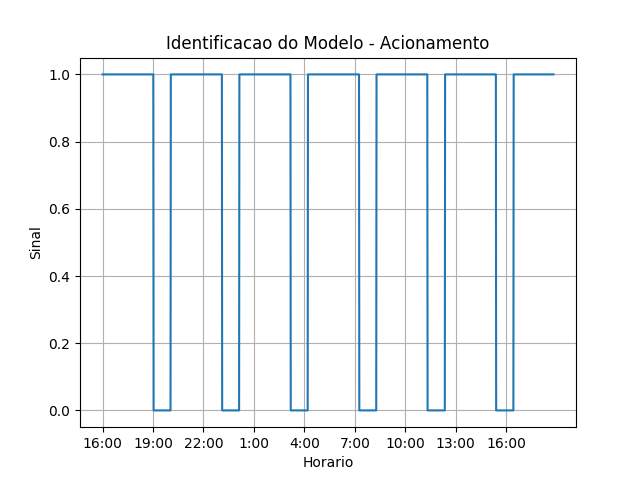
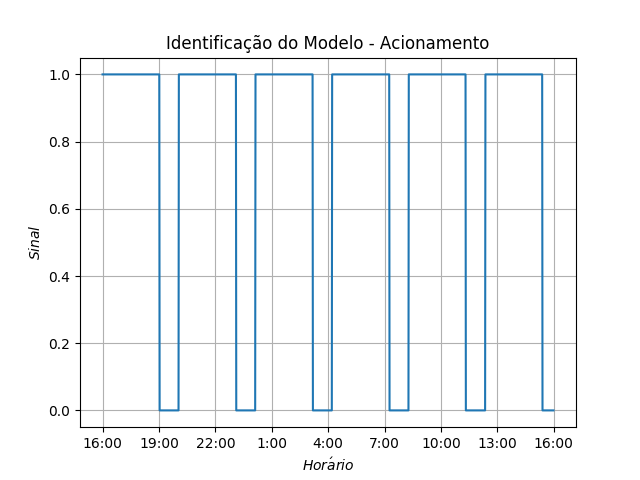
Grafico oficial Identificacao

diff --git a/Integracao/plotlib.py b/Integracao/plotlib.py
@@ -18,8 +18,22 @@ def plotModel (database, name, controllerType):
     TEMP = 23
     TEMP_EMPTY_ROOM = 25
     
+    if(name == '2018-11-23_09-51-38_05'):
+        energyTime = ['09-40','10-20','10-52','11-14','11-43','13-22','13-46','14-16','14-36']
+        energyValue = [9041.93,9041.25,9042.61,9042.85,9043.26,9044.82,9045.35,9046.03,9046.46]
+    else:
+        energyTime = []
+        energyValue = []
+    
+    energyHour = []
+    energyMin = []
+    for t in energyTime:
+        t = t.split('-')
+        energyHour.append(t[0])
+        energyMin.append(t[1])
+        
     if(controllerType == 0):
-        title = 'Identificacao do Modelo'
+        title = 'Identificação do Modelo'.decode('utf-8')
         save = 'Ident'
     elif(controllerType == 1):
         title = 'Controlador Liga-Desliga'
@@ -54,6 +68,10 @@ def plotModel (database, name, controllerType):
     inferior = []
     superior = []
     
+    contEnergy = 0
+    
+    energy = []
+    
     for line in data:
         
         time = line[0].decode("utf-8")
@@ -66,6 +84,12 @@ def plotModel (database, name, controllerType):
         timeAux = time.split("-")
         hour = timeAux[0]
         min = timeAux[1]
+        
+        if(len(energyHour)>contEnergy+1):
+            if(int(hour)>energyHour[contEnergy+1] and int(min)>energyMin[contEnergy+1]):
+                contEnergy = contEnergy+1
+        if(len(energyHour)>0):
+            energy.append(energyValue[contEnergy])
         
         dateTime.append(time)
         tempMeetingRoom.append(line[1])
@@ -111,7 +135,7 @@ def plotModel (database, name, controllerType):
 ##            nPeopleReal = 4
 ##        elif(hour=='10' and (min == '51' or min == '52')):
 ##            nPeopleReal = 2
-##        elif(hour=='10' and (min == '55' or min == '56')):
+##        elif(hour=='10' and (min == '55' or min == '170')):
 ##            nPeopleReal = 4
 ##        elif(hour=='11' and (min == '04' or min == '05')):
 ##            nPeopleReal = 5
@@ -166,7 +190,7 @@ def plotModel (database, name, controllerType):
         else:
             compressorSignal.append(line[5])
             
-        if(cont == 0 or cont%56 == 0):
+        if(cont == 0 or cont%170 == 0):
             dateTimeClean.append(str(int(hour))+":00")
             
             if(cont == 0):
@@ -191,63 +215,64 @@ def plotModel (database, name, controllerType):
     integralL = 0
     integralError = 0
     PMV = []
-    for i in range(len(tempExternal)):
-        tempE = tempExternal[i]
-        tempL = tempLara[i]
-        e = error[i]
-        tempR = tempMeetingRoom[i]
+    if(controllerType != 0):
+        for i in range(len(tempExternal)):
+            tempE = tempExternal[i]
+            tempL = tempLara[i]
+            e = error[i]
+            tempR = tempMeetingRoom[i]
+            
+            if(tempE > 23):
+                integralE = integralE + (tempE - 23)
+            if(tempL > 23):
+                integralL = integralL + (tempL - 23)
+                
+            if(e > 0):
+                integralError = integralError + e
+            else:
+                integralError = integralError - e
+                
+            if(tempR < 17):
+                pmv = -1.77
+            elif(tempR < 18):
+                pmv = -1.5
+            elif(tempR < 19):
+                pmv = -1.27
+            elif(tempR < 20):
+                pmv = -1.02
+            elif(tempR < 21):
+                pmv = -0.77
+            elif(tempR < 22):
+                pmv = -0.5
+            elif(tempR < 22.7):
+                pmv = -0.25
+            elif(tempR < 23.3):
+                pmv = 0
+            elif(tempR < 25):
+                pmv = 0.27
+            elif(tempR < 26):
+                pmv = 0.5
+            elif(tempR < 27):
+                pmv = 0.78
+            elif(tempR < 28):
+                pmv = 1
+            elif(tempR < 29):
+                pmv = 1.29
+            elif(tempR < 30):
+                pmv = 1.6
+            else:
+                pmv = 1.8
+                
+            PMV.append(pmv)
+            
+        N = 15
+        cumsum, PMVFilter = [0], []
         
-        if(tempE > 23):
-            integralE = integralE + (tempE - 23)
-        if(tempL > 23):
-            integralL = integralL + (tempL - 23)
-            
-        if(e > 0):
-            integralError = integralError + e
-        else:
-            integralError = integralError - e
-            
-        if(tempR < 17):
-            pmv = -1.77
-        elif(tempR < 18):
-            pmv = -1.5
-        elif(tempR < 19):
-            pmv = -1.27
-        elif(tempR < 20):
-            pmv = -1.02
-        elif(tempR < 21):
-            pmv = -0.77
-        elif(tempR < 22):
-            pmv = -0.5
-        elif(tempR < 22.7):
-            pmv = -0.25
-        elif(tempR < 23.3):
-            pmv = 0
-        elif(tempR < 25):
-            pmv = 0.27
-        elif(tempR < 26):
-            pmv = 0.5
-        elif(tempR < 27):
-            pmv = 0.78
-        elif(tempR < 28):
-            pmv = 1
-        elif(tempR < 29):
-            pmv = 1.29
-        elif(tempR < 30):
-            pmv = 1.6
-        else:
-            pmv = 1.8
-            
-        PMV.append(pmv)
-        
-    N = 15
-    cumsum, PMVFilter = [0], []
-    
-    for i, x in enumerate(PMV, 1):
-        cumsum.append(cumsum[i-1] + x)
-        if i>=N:
-            movingAve = (cumsum[i] - cumsum[i-N])/N
-            PMVFilter.append(movingAve)
+        for i, x in enumerate(PMV, 1):
+            cumsum.append(cumsum[i-1] + x)
+            if i>=N:
+                movingAve = (cumsum[i] - cumsum[i-N])/N
+                PMVFilter.append(movingAve)
     
     
     #matplotlib.rc('text', usetex=True)
@@ -263,7 +288,7 @@ def plotModel (database, name, controllerType):
     plt.title(title + " - Temperatura")
     plt.ylabel(r"$Temperatura$")
     plt.xlabel(r"$Hor\'ario$")
-    plt.xticks(range(0, cont, 56), dateTimeClean)
+    plt.xticks(range(0, cont, 170), dateTimeClean)
     plt.grid(True)
     plt.savefig("Log/"+save+"_"+name+"_Temp.png")
     plt.show()
@@ -275,7 +300,7 @@ def plotModel (database, name, controllerType):
     plt.title(title + " - Perturbacoes de Temperaturas")
     plt.ylabel(r"$Temperatura$")
     plt.xlabel(r"$Hor\'ario$")
-    plt.xticks(range(0, cont, 56), dateTimeClean)
+    plt.xticks(range(0, cont, 170), dateTimeClean)
     plt.grid(True)
     plt.savefig("Log/"+save+"_"+name+"_TempExt.png")
     plt.show()
@@ -287,21 +312,30 @@ def plotModel (database, name, controllerType):
         plt.title(title + " - PMV")
         plt.ylabel(r"$PMV$")
         plt.xlabel(r"$Hor\'ario$")
-        plt.xticks(range(0, cont, 56), dateTimeClean)
+        plt.xticks(range(0, cont, 170), dateTimeClean)
         plt.grid(True)
         plt.savefig("Log/"+save+"_"+name+"_PMV.png")
         plt.show()
         
         plt.figure()
-        plt.plot(dateTime[1:], compressorSignal[1:])
-        plt.plot(dateTime[1:], dutyCycle[1:])
-        plt.legend((r"$Sinal\ de\ Controle$", r"$Ciclo\ de\ Trabalho$"), loc='lower left')
-        plt.title(title + " - Acionamento")
-        plt.ylabel(r"$Sinal$")
+        plt.plot(dateTime[15:], PMVFilter[1:])
+        #plt.legend((r"$Sinal\ de\ Controle$", r"$Estado\ do\ Sistema$"), loc='lower left')
+        plt.title(title + " - PMV")
+        plt.ylabel(r"$PMV$")
         plt.xlabel(r"$Hor\'ario$")
-        plt.xticks(range(0, cont, 56), dateTimeClean)
+        plt.xticks(range(0, cont, 170), dateTimeClean)
         plt.grid(True)
-        plt.savefig("Log/"+save+"_"+name+"_Signal.png")
+        plt.savefig("Log/"+save+"_"+name+"_PMV.png")
+        plt.show()
+        
+        plt.figure()
+        plt.plot(dateTime[1:], energy[1:])
+        plt.title(title + " - Consumo")
+        plt.ylabel(r"$Consumo (KWh)$")
+        plt.xlabel(r"$Hor\'ario$")
+        plt.xticks(range(0, cont, 170), dateTimeClean)
+        plt.grid(True)
+        plt.savefig("Log/"+save+"_"+name+"_Energy.png")
         plt.show()
     
         plt.figure()
@@ -309,7 +343,7 @@ def plotModel (database, name, controllerType):
         plt.title(title + " - Contagem de Pessoas")
         plt.ylabel(r"$N\'umero\ de\ Pessoas$")
         plt.xlabel(r"$Hor\'ario$")
-        plt.xticks(range(0, cont, 56), dateTimeClean)
+        plt.xticks(range(0, cont, 170), dateTimeClean)
         plt.grid(True)
         plt.savefig("Log/"+save+"_"+name+"_People.png")
         plt.show()
@@ -319,7 +353,7 @@ def plotModel (database, name, controllerType):
         plt.title(title + " - Sinal da Porta")
         plt.ylabel(r"$Sinal$")
         plt.xlabel(r"$Hor\'ario$")
-        plt.xticks(range(0, cont, 56), dateTimeClean)
+        plt.xticks(range(0, cont, 170), dateTimeClean)
         plt.grid(True)
         plt.savefig("Log/"+save+"_"+name+"_Door.png")
         plt.show()
@@ -330,7 +364,7 @@ def plotModel (database, name, controllerType):
         plt.title(title + " - Acionamento")
         plt.ylabel(r"$Sinal$")
         plt.xlabel(r"$Hor\'ario$")
-        plt.xticks(range(0, cont, 56), dateTimeClean)
+        plt.xticks(range(0, cont, 170), dateTimeClean)
         plt.grid(True)
         plt.savefig("Log/"+save+"_"+name+"_Signal.png")
         plt.show()

diff --git a/Integracao/controllerlib.py b/Integracao/controllerlib.py
@@ -95,18 +95,18 @@ def Controller(lastOutput, cont):
             # Erro: diferenca entre temperatura desejada e medida
             error = float(settings.tempMeetingRoom) - TEMP
             
-            if((error < 0.4 and lastOutput != 100) or error <= -0.2):
+            if((error < 0.3 and lastOutput != 100) or error <= -0.3):
                 # Sinal de controle
                 controllerSignal = piController(float(settings.tempMeetingRoom))
                 print(TAG + "Controller Signal: " + str(controllerSignal))
 
                 # Saturacao
-                if (controllerSignal>0.2):
-                        controllerSignal = 0.2;
+                if (controllerSignal>0.05):
+                        controllerSignal = 0.05;
                 elif (controllerSignal < 0):
                         controllerSignal = 0;
 
-                output = controllerSignal * 100.0 / 0.2;
+                output = controllerSignal * 100.0 / 0.05;
                 
                 print(TAG + "Controller Signal: " + str(output))
             else:

diff --git a/Integracao/plots.py b/Integracao/plots.py
@@ -9,14 +9,14 @@ from sqlitelib import *
 # 1 -> Liga-Desliga
 # 2 -> PI
 # 3 -> Antecipativo
-controllerType = 2
+controllerType = 0
 
 # Identificacao
 # name = '2018-10-12 15:44:53'
 # name = '2018-10-13 13:10:18'
 # name = '2018-10-14 10:18:28'
 # name = '2018-10-23 22:43:46'
-# name = '2018-10-20_16-44-16' # OFICIAL
+name = '2018-10-20_16-44-16' # OFICIAL
 
 
 # Liga-Desliga
@@ -36,7 +36,8 @@ controllerType = 2
 # name = '2018-11-02 18:40:37' # OFICIAL SEM PERTURBACAO
 # name = '2018-11-05 22:47:36'
 #name = '2018-11-09_09-55-06' # OFICIAL COM PERTURBACAO
-name = '2018-11-22_09-30-11_03' # TESTES DE 8 HORAS
+# name = '2018-11-22_09-30-11_03'
+#name = '2018-11-23_09-51-38_05' #8 HORAS
 
 #Antecipativo
 # name = '2018-11-10_12-11-55'
